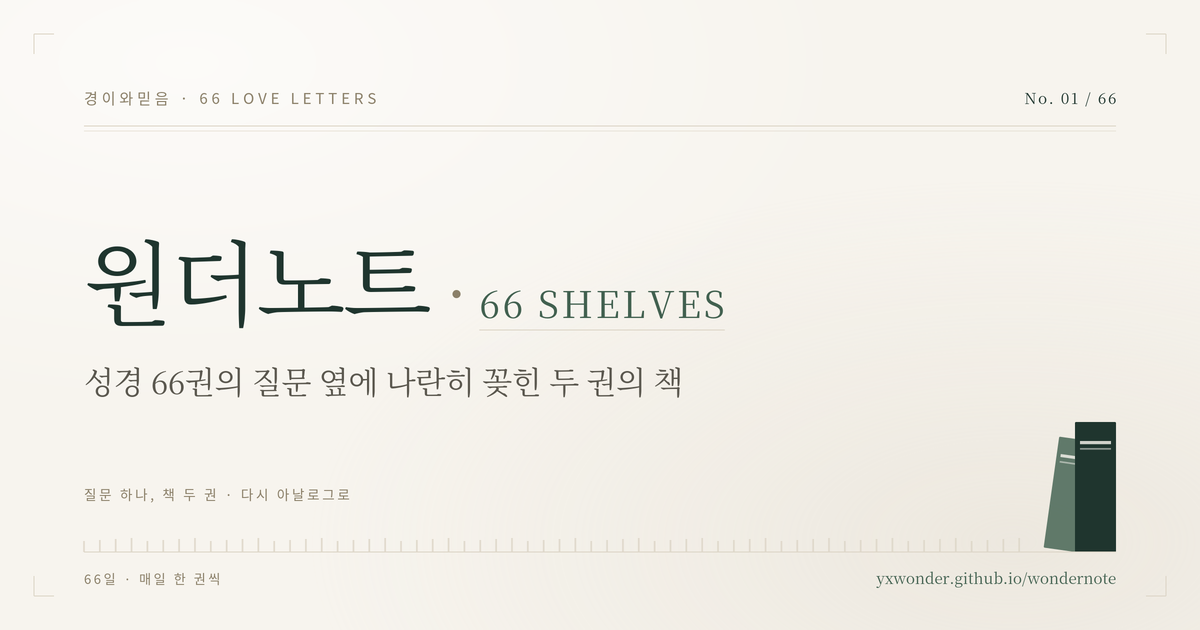
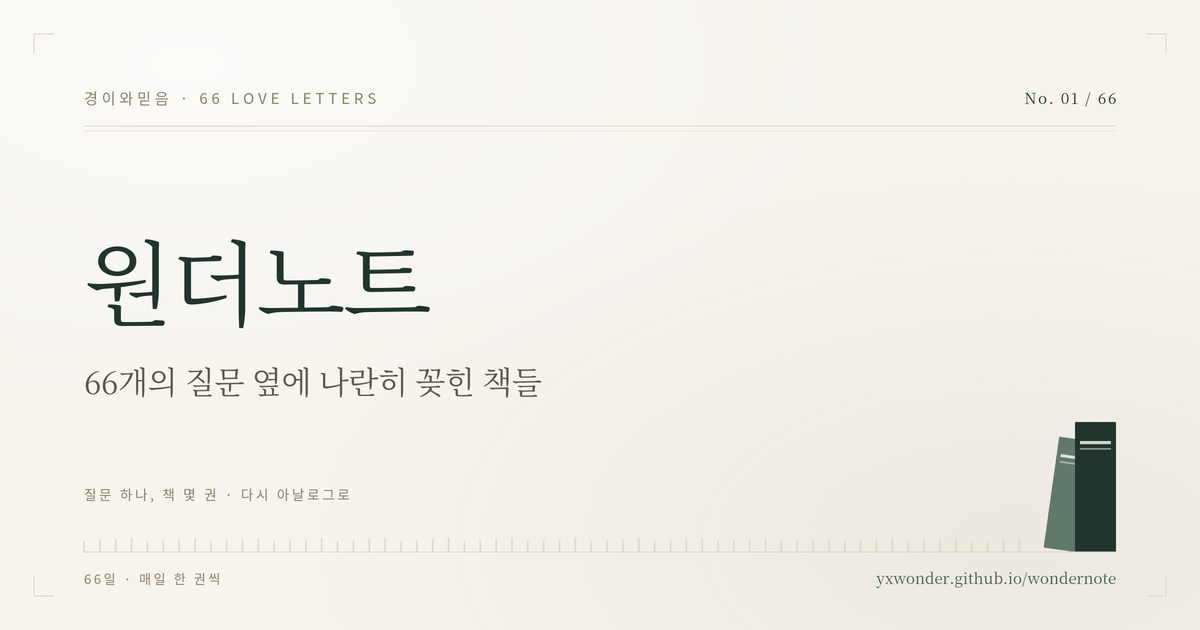
제목 옆 부제(66 Shelves) 걷어내고 공유 미리보기 문구·카드를 새 소개글 결로 통일

Changed region(s): [[0.0617, 0.573, 0.5858, 0.6333], [0.4008, 0.4524, 0.6167, 0.5127]]

diff --git a/index.html b/index.html
@@ -3,22 +3,22 @@
 <head>
 <meta charset="utf-8">
 <meta name="viewport" content="width=device-width, initial-scale=1">
-<title>원더노트 · 66 Shelves</title>
-<meta name="description" content="성경 66권의 질문 옆에 나란히 꽂힌 두 권의 책 — 원더노트, 경이와믿음 · 66 Shelves.">
+<title>원더노트 — 경이와믿음</title>
+<meta name="description" content="66개의 질문 옆에 나란히 꽂힌 책들 — 경이와믿음">
 <meta name="theme-color" content="#F7F4EE">
 <meta property="og:type" content="website">
 <meta property="og:site_name" content="원더노트">
 <meta property="og:url" content="https://yxwonder.github.io/wondernote/">
-<meta property="og:title" content="원더노트 · 66 Shelves">
-<meta property="og:description" content="성경 66권의 질문 옆에 나란히 꽂힌 두 권의 책 — 경이와믿음">
+<meta property="og:title" content="원더노트 — 경이와믿음">
+<meta property="og:description" content="66개의 질문 옆에 나란히 꽂힌 책들 — 경이와믿음">
 <meta property="og:image" content="https://yxwonder.github.io/wondernote/og-image.png">
 <meta property="og:image:width" content="1200">
 <meta property="og:image:height" content="630">
-<meta property="og:image:alt" content="원더노트 · 66 Shelves — 경이와믿음 66 Love Letters">
+<meta property="og:image:alt" content="원더노트 — 경이와믿음 66 Love Letters">
 <meta property="og:locale" content="ko_KR">
 <meta name="twitter:card" content="summary_large_image">
-<meta name="twitter:title" content="원더노트 · 66 Shelves">
-<meta name="twitter:description" content="성경 66권의 질문 옆에 나란히 꽂힌 두 권의 책 — 경이와믿음">
+<meta name="twitter:title" content="원더노트 — 경이와믿음">
+<meta name="twitter:description" content="66개의 질문 옆에 나란히 꽂힌 책들 — 경이와믿음">
 <meta name="twitter:image" content="https://yxwonder.github.io/wondernote/og-image.png">
 <link rel="icon" href="favicon.svg" type="image/svg+xml">
 <link rel="icon" href="favicon-32.png" sizes="32x32" type="image/png">
@@ -80,13 +80,6 @@
     font-size:clamp(30px,8.2vw,52px);
     line-height:1.24;letter-spacing:-.03em;
     margin:26px 0 0;color:var(--green);
-  }
-  h1 .h1-2{display:inline-block;white-space:nowrap}
-  h1 .dot{color:var(--sepia);margin:0 .26em 0 .1em;font-weight:300}
-  h1 em{
-    font-style:normal;display:inline-block;
-    font-size:.46em;letter-spacing:.06em;color:var(--green-soft);
-    border-bottom:1px solid var(--line);padding-bottom:2px;
   }
   .lede{
     margin:16px 0 0;font-size:clamp(15px,4.4vw,19px);font-weight:400;
@@ -434,7 +427,7 @@
       <span class="brand">경이와믿음 · 66 Love Letters</span>
       <span class="no">No. 01 / 66</span>
     </div>
-    <h1>원더노트<span class="h1-2"><span class="dot">·</span><em>66 Shelves</em></span></h1>
+    <h1>원더노트</h1>
     <p class="lede">66개의 질문 옆에 나란히 꽂힌 책들</p>
     <p class="sub">매년 마지막 날들을 러브레터를 읽으며 마무리합니다. 그 곁에 책 몇 권을 꽂아 두었습니다. 그 편지들을 더욱 빛나게 해 주었던 소중한 작품들이에요. 질문 하나, 그리고 책 몇 권, 다시 아날로그로.</p>
     <hr class="rule thick">

diff --git a/README.md b/README.md
@@ -1,6 +1,6 @@
-# 원더노트 · 66 Shelves
+# 원더노트
 
-성경 66권의 질문 옆에 나란히 꽂힌 두 권의 책 — 구글 시트와 실시간으로 연동되는 웹 책장입니다.
+66개의 질문 옆에 나란히 꽂힌 책들 — 구글 시트와 실시간으로 연동되는 웹 책장입니다.
 
 - 페이지: https://yxwonder.github.io/wondernote/
 - 관리표(구글 시트): https://docs.google.com/spreadsheets/d/1eL_QA97mbWT1BksM1UWEBGtsDPAsI7_oriciwwVhMDM/edit
